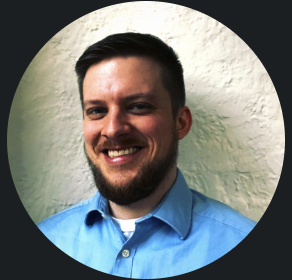
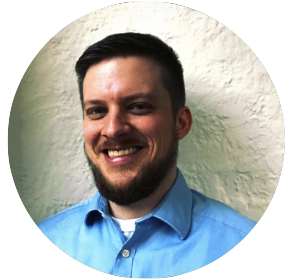
CSS adjustments mostly. I got the slideshow to not have all 3 images at start. Going to start dropdwon menu creation

Changed region(s): [[0.0, 0.0, 1.0, 1.0]]

diff --git a/style.css b/style.css
@@ -1,7 +1,15 @@
 @media screen and (max-width: 500px) {
-
+    .navbar-face {
+        margin-top: 4px;
+        margin-left: -70px;
+        max-height: 55px;
+    }
+    #top-navbar {
+        height: 65px;
+        background-color: rgb(121, 80, 27);
+    }
     .nav-buttons {
-    display: none;
+        display: none;
     }
 
     #slideshow-container {
@@ -9,18 +17,9 @@
     }
 
     .headerface {
-        height: 150px;
-        background-color: rgba(28, 31, 35, 1);
+        display: none;
     }
-
-    .myface {
-        max-height: 95px;
-        max-width: 100px;
-        position: relative;
-        margin-left: auto;
-        left: -100px;
-    }
-
+     
     .contents {
         font-size: 18px;
     }
@@ -31,11 +30,6 @@
     }
 }
 
-@media screen and (max-width: 300px) {
-    .nav-buttons {
-        display: none;
-    }
-}
 
 
 
@@ -43,11 +37,9 @@
     margin: 0;
     /* border: 1px solid pink; */
 }
-/* html {
-    height: 100%;
 
-} */
 body {
+    margin: auto;
     height: 100%;
     width: 100%;
     color:antiquewhite;
@@ -58,7 +50,7 @@ body {
 }
 .header-nav {
     width: 100%;
-    height: 60px;
+    height: 56px;
     display: flex;
     flex-direction: row;
     justify-content: space-around;
@@ -70,11 +62,18 @@ body {
 }
 
 .nav-buttons {
-    padding: 2px;
-    color:rgb(5, 31, 37);
+    background-color: rgb(121, 80, 27);
+    color: antiquewhite;
 }
 .myface {
+    display: relative;
+    justify-content: center;
     height: 80%;
+}
+
+
+.burger {
+    display: show;
 }
 
 .headerface {
@@ -82,20 +81,27 @@ body {
     background-color: rgba(28, 33, 40, 1);
 }
 .section-title {
+    text-align: center;
     font-size: 20px;
     padding: 1.2em;
     border-bottom: 4px dotted rgb(96, 78, 55);
     border-radius: 20px;
 }
-.slideshow-pictures {
-    display: relative;
-    margin: 30px;
-}
 
 .contents {
-    text-align: center;
+    margin: auto;
     max-width: 600px;
 }
+.slideshow-pictures {
+    display: none;
+    padding-top: 40px;
+    max-width: 70%;
+    max-height: 80%;
+    display: relative;
+    margin: auto;
+}
+
+
 
 .projects {
     display: relative;
@@ -104,7 +110,7 @@ body {
     align-content: center;
 }
 .projectboxes {
-    align-items: center;
+    margin: auto;
     width: 175px;
     margin-bottom: 15px;
     border: 2px solid white;

diff --git a/app.js b/app.js
@@ -8,8 +8,8 @@ const mySlides = document.getElementById("slideshow-container").querySelectorAll
 function slideShow() { // I wanted to do more of a traditional carousel, but was completely intimidated when I looked at a simple example on Bootstrap. I remember people back in the day saying "HOLY S**T! I made my first carousel and it only took me 2 weeks!", so I went a more simplified route with an index method using querySelectorAll (creating a list) in combo with the index method. This was putting together a few concetps we've learned so far, and I might add a button interaction to stop/start, or start it over, I'm not sure yet.
 
     // *** It doesn't do what I want, yet. All 3 images are displayed and just flex every 3 seconds. I also don't have the right pictures in yet those are just place holders.
-    mySlides[slideIndex].style.display = "flex";
-    mySlides[slideIndex].style.flexDirection = "flex-row"; // ? I just guessed... 
+    mySlides[slideIndex].style.display = "none"; // Changed this to none (per Angels direction!) I'ma lready using "none" in my CSS just didnt' think to apply it here.
+
     slideIndex = (slideIndex + 1) % mySlides.length; // With QSA returning a list, the index method (let slideIndex = 0, above in global space) was the method I chose for this. I got nowhere with getElementById and I'm not entirely sure why.
     // The modulo portion is cool :) I like that operator. I couldn't figure out how to get the slideIndex back to 0 within the function while on the last image at first. I explored a { once: true } condition on the setInterval function but it was getting messy. Now, when slideIndex = 2 (3rd image) slideIndex now equals 0 because there's no remainder! ie., it reset the function every 3 runs. I think Ryan showed us this a couple times in week 1 (modulo stuff) in a more basic manner. It was also used the in the GA prework a couple times.
     mySlides[slideIndex].style.display = "inline-block"; // Not sure if this is what I need permanently but it's working right now!

diff --git a/index.html b/index.html
@@ -4,17 +4,21 @@
     <meta charset="UTF-8">
     <meta http-equiv="X-UA-Compatible" content="IE=edge">
     <meta name="viewport" content="width=device-width, initial-scale=1.0">
-    <link rel="stylesheet" href="https://unpkg.com/@primer/css@^18.0.0/dist/primer.css">
     <link rel="stylesheet" href="https://cdn.jsdelivr.net/npm/bootstrap@5.3.0-alpha2/dist/css/bootstrap.min.css">
     <link rel="stylesheet" href="style.css">
     <title>Joel Fuelling-Portfolio</title>
 </head>
 <body>
-    <nav class="header-nav">
+
+
+
+    <nav class="header-nav" id="top-navbar">
+        
+        <img src="image/MyFace.png" class="navbar-face" alt="Joels face Nav Bar">
         <div class="header-items"><a href="https://www.linkedin.com/in/joel-fuelling-2012a7108/" target=”_blank><button class="nav-buttons">Linked In</button></a></div>      
         <div class="header-items"><a href="image/Screenshot 2023-04-02 at 11.09.01 AM.png" target=”_blank><button class="nav-buttons">Resume</button></a></div>
     </nav>
-        <div class ="headerface section-title anim-hover-grow d-flex flex-justify-center">
+        <div class ="headerface section-title">
             <img src="image/MyFace.png" class="myface" alt="Picture of Joel Fuelling">
         </div>
     
@@ -50,7 +54,7 @@
 
     <footer id="footer">Software Engineering Immersive @ General Assembly (2023)</footer>
 
-    <script scr="https://cdn.jsdelivr.net/npm/bootstrap@5.3.0-alpha2/dist/js/bootstrap.bundle.min.js"></script>
+  </script>
     <script src="app.js"></script>
 </body>
 </html>
